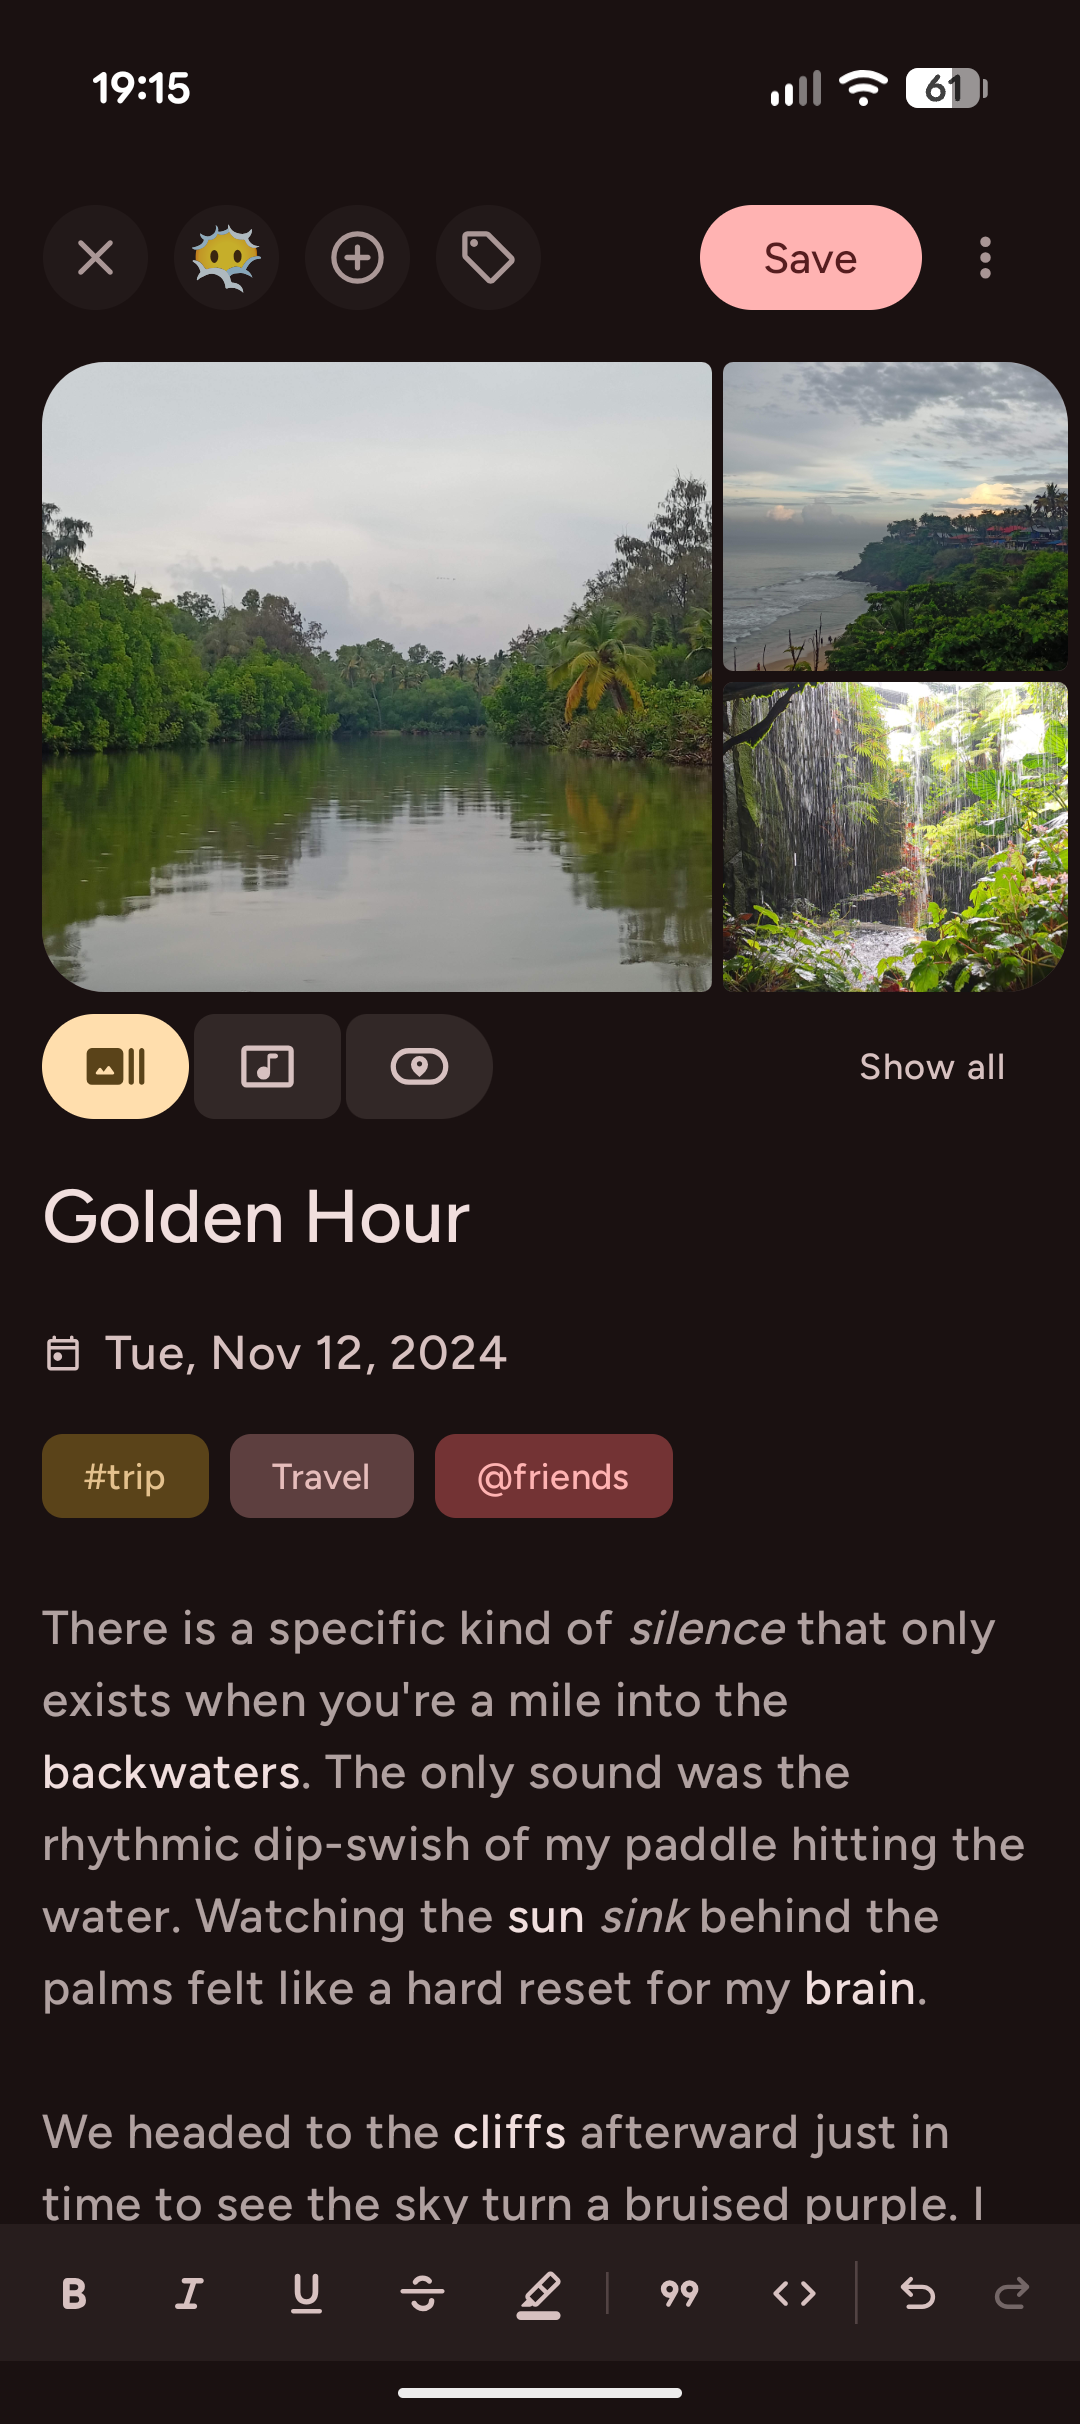
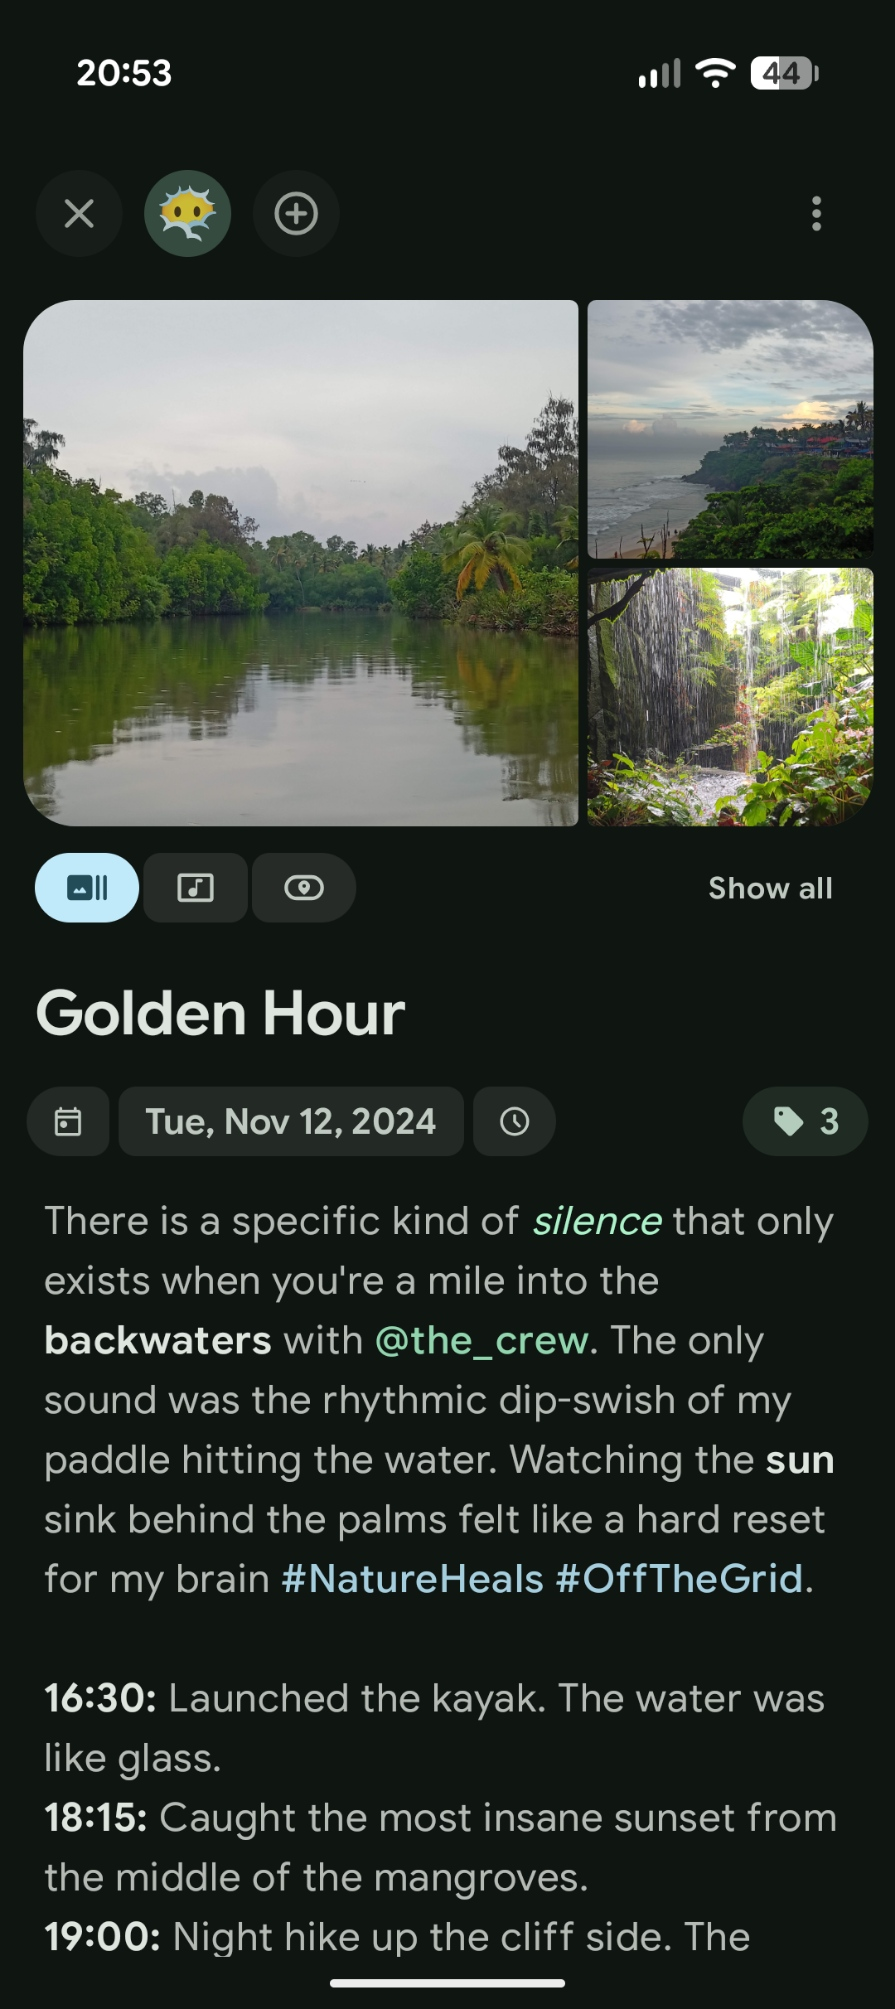
release: v0.9.0

diff --git a/README.md b/README.md
@@ -42,7 +42,7 @@ June is designed to be more than just text—it's a multimedia capsule of your l
 - **Smart Organization:** Intelligently categorize your entries using three distinct tag groups: **Spaces**, **People**, and **Topics**.
 - **Soundtrack Support:** Paste a link from any major streaming platform (Spotify, Apple Music, etc.), and June automatically fetches the cover art and song details.
 - **Mood Tracking:** Tag entries with emojis to log your emotional journey and personal growth over time.
-- **Rich Text Editing:** Style your entries with full support for bold, italics, underline, highlight and more.
+- **Rich Text Editing:** Style your entries with full support for bold, italics, underline, highlight, and **tag autocompletion**.
 
 ### Relive Your History
 
@@ -54,7 +54,7 @@ June is designed to be more than just text—it's a multimedia capsule of your l
 ### Secure & Styled
 
 - **Privacy Vault:** Secure your entries with Biometric Unlock or a custom PIN. Includes screen capture and recents menu protection.
-- **Expressive Theming:** Enjoy a personalized look with **Dynamic Wallpaper Colors (Material You)**.
+- **Expressive Theming:** Enjoy a personalized look with **Dynamic Wallpaper Colors (Material You)** and custom **Font Selection**.
 - **Total Ownership:** 100% offline architecture with full Backup & Restore capabilities—your data never leaves your device unless you choose to sync it.
 - **Network Toggle:** Full control over your connectivity. Turn off all external network access if you prefer not to fetch song metadata or use online map services.
 - **Cloud Sync:** Keep your journal in sync across devices using **WebDAV**. Maintain 100% privacy by using your own Nextcloud, ownCloud, or any WebDAV provider.
@@ -120,12 +120,21 @@ June uses **MapTiler** for map rendering.
 1. Open the project in Android Studio and let Gradle sync.
 2. Select the debug build variant (default).
 3. Click Run.
-   > Note: You do not need `keystore.properties` to build the debug version. That file is only required for signing release/beta builds.
 
-## Security
+## Security & Verifiability
 
-SHA-256 fingerprint for the signing certificate used for github releases
+### Signing Certificate
+SHA-256 fingerprint for the signing certificate used for GitHub releases:
 
 ```
 E8:21:01:FC:C2:20:98:61:AF:DF:81:1C:03:12:F6:2A:A5:BA:8B:E3:10:E1:D2:74:C6:91:CE:6E:B5:D1:B7:BB
 ```
+
+### Artifact Attestations
+All official APK releases built using our GitHub workflow include cryptographically signed **Artifact Attestations** (Build Provenance).
+
+* **Easy Verification (Browser):** Visit our [Releases](https://github.com/DenserMeerkat/June/releases) page. You will see a **"Verified"** or **"Attested"** badge next to the assets of each release. Click this badge to instantly view the build provenance, including the exact GitHub Action run and commit that generated that APK.
+* **CLI Verification (For Developers):** You can verify a downloaded APK locally using the GitHub CLI:
+  ```bash
+  gh attestation verify name-of-apk.apk --repo DenserMeerkat/June
+  ```